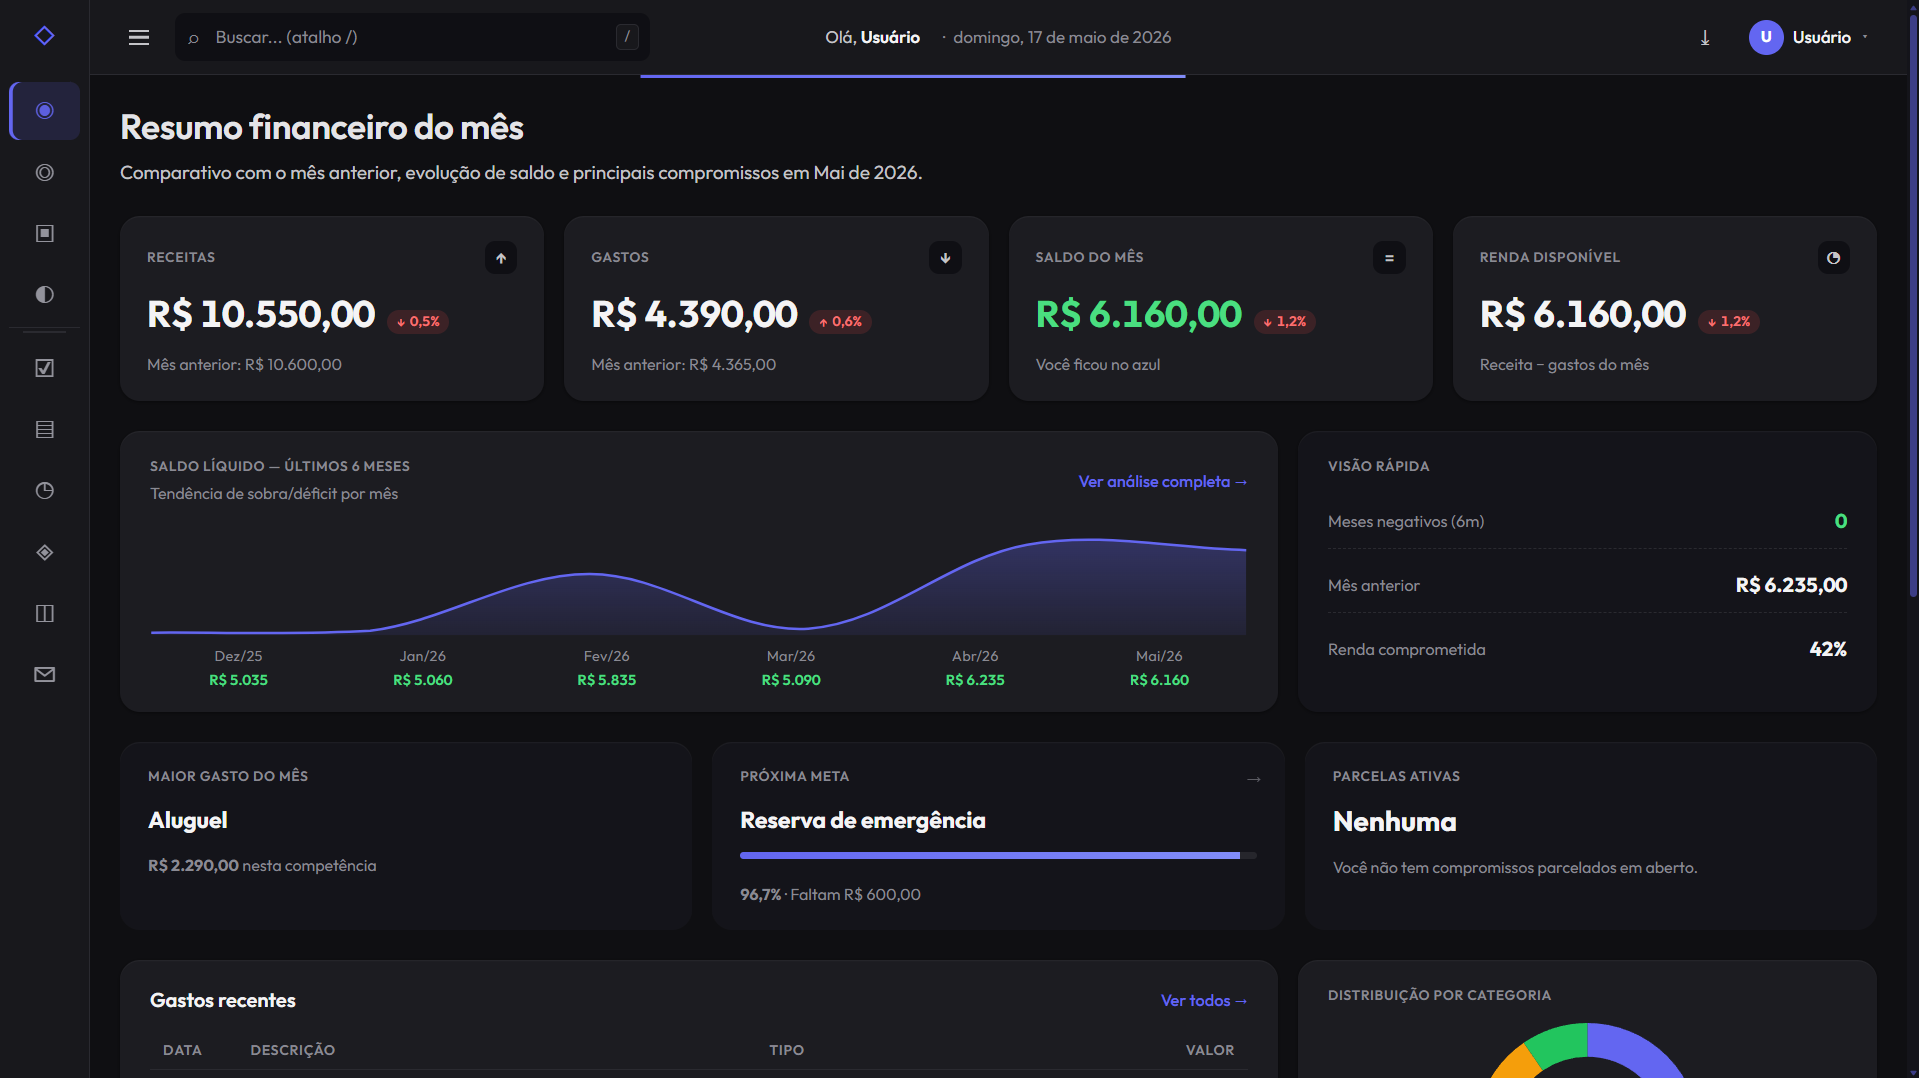
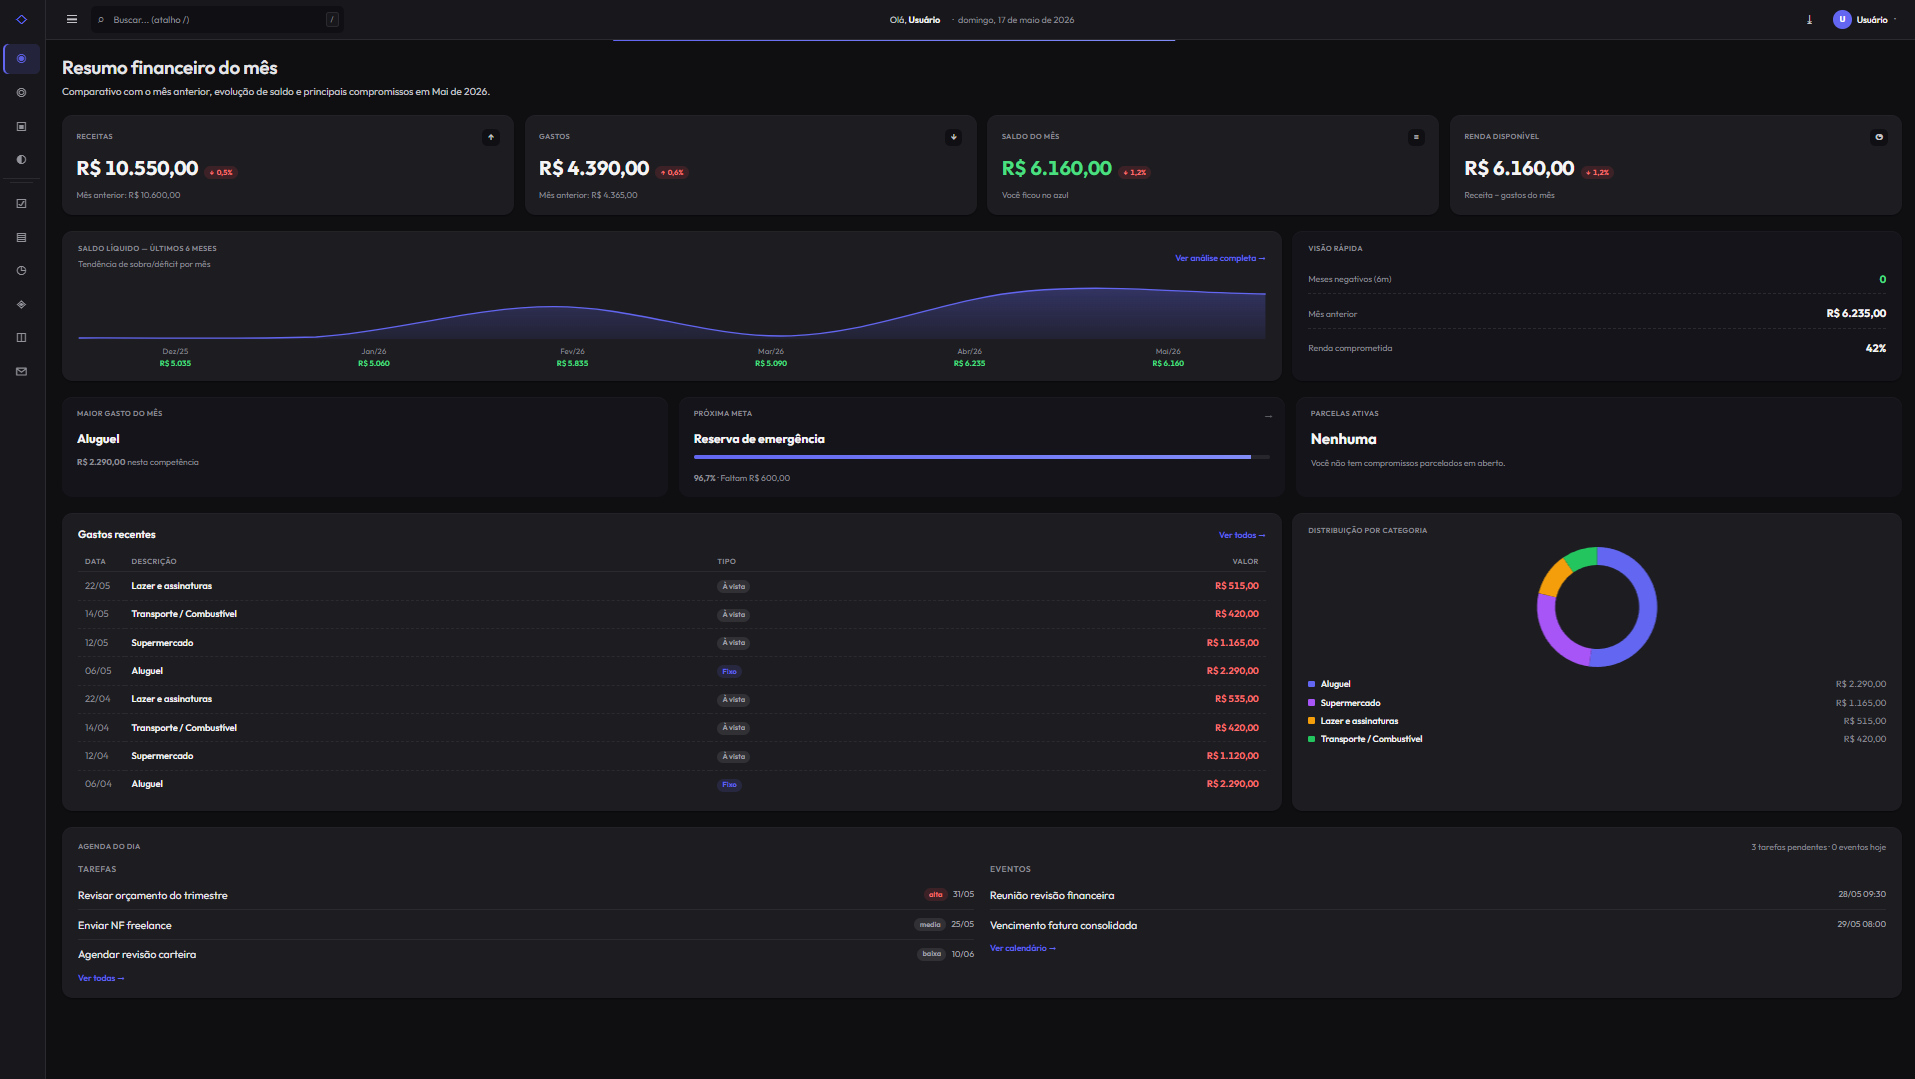
Ajustes de projetos

diff --git a/components/sections/Projects.tsx b/components/sections/Projects.tsx
@@ -57,11 +57,11 @@ const projectsData: readonly Project[] = [
     description:
       'Ecommerce com Checkout completo com Stripe, autenticação JWT, painel admin com estoque e histórico.',
     image: '/projects/shopmy.png',
-    technologies: ['React', 'Next.js', 'TypeScript', 'Stripe', 'MongoDB'],
+    technologies: ['React', 'Next.js', 'TypeScript', 'Stripe', 'MongoDB', 'Neon'],
     filters: ['Full stack'],
     github: 'https://github.com/Kaue-Gomes/shopmy',
-    demo: undefined,
-    hideDemo: true,
+    demo: 'https://shopmy-theta.vercel.app/',
+    hideDemo: false,
     hasCredentials: false,
   },
   {
